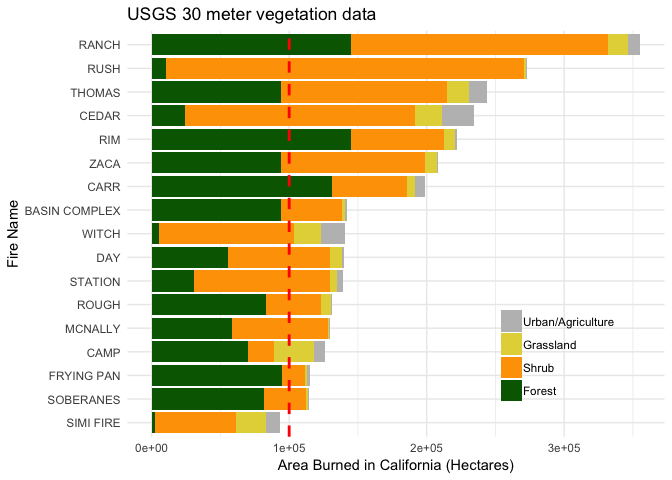
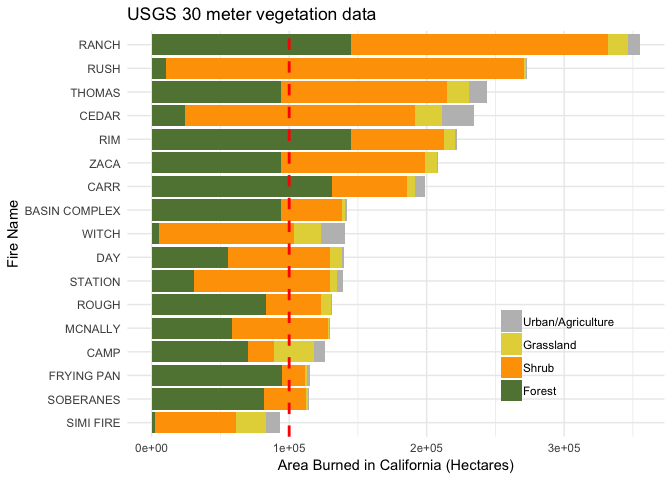
knit fig color and text

Changed region(s): [[0.2188, 0.0625, 0.5312, 0.9062], [0.7188, 0.7812, 0.7812, 0.8438]]

diff --git a/analyses/land-cover.md b/analyses/land-cover.md
@@ -265,7 +265,7 @@ fire_perc<- fh %>%
 ``` r
 cols <- c("Forest" = "darkgreen", "Grassland" = "#799479", "Shrub" = "#DBA901", "Urban/Agriculture" = "gray") 
 
-cols <- c("Forest" = "darkgreen", 
+cols <- c("Forest" = "#608341",  #"darkgreen" 
           "Grassland" = "#e4d547",#A0522D 
           "Shrub" = "#fea201", #DEB887
           "Urban/Agriculture" = "gray") 
@@ -328,6 +328,8 @@ fire_final <- fire_perc %>%
   mutate(sumarea = sum(GIS_ACRES)) %>% 
   arrange(desc(sumarea))
 
+fire_final$FIRE_NAME[29:32]="Basin"
+
 # name_color <- fire_final %>% 
 #   select(FIRE_NAME,GIS_ACRES, sumarea) %>% 
 #   distinct() 
@@ -339,29 +341,24 @@ fire_final <- fire_perc %>%
 final_fig<- fire_final %>%
   arrange(desc(sumarea)) %>% 
   arrange(desc(Category)) %>%
-  ggplot(aes(x=reorder(FIRE_NAME, sumarea), y=area, fill= Category)) + 
+  ggplot(aes(x=reorder(FIRE_NAME, sumarea), y=area, fill= Category, width= 0.8)) + 
   geom_bar(stat="identity") +
   guides(fill = guide_legend(reverse = TRUE)) +
   scale_colour_manual(values = cols, aesthetics = c("colour", "fill")) +
   scale_y_continuous(labels = scales::comma, expand = c(0, 0)) +
   theme_classic() +
-  theme(axis.title=element_text(size=9,face="bold", family = "Helvetica"),
+  theme(plot.margin = unit(c(1,3,1,1), "lines"), 
+        axis.title=element_text(size=9,face="bold", family = "Helvetica"),
         legend.text = element_text(colour="black", size=8, family = "Helvetica"),
-        axis.text.x = element_text(size=9, family = "Helvetica"),
-        axis.text.y = element_text(size=9, family = "Helvetica"), 
+        axis.text.x = element_text(size=8, family = "Helvetica"),
+        axis.text.y = element_text(size=8, family = "Helvetica"), 
         legend.position = "bottom") +
-  coord_flip() +
-  labs(y = "Acres Burned in California", 
+    labs(y = "Acres Burned in California", 
        x = element_blank(),
-       fill = element_blank())
+       fill = element_blank()) +
+  coord_flip() 
 
-final_fig 
+final_fig
 ```
 
 ![](land-cover_files/figure-markdown_github-ascii_identifiers/unnamed-chunk-7-1.png)
-
-``` r
-# mega_text<- textGrob("Megafire\nthreshold", gp=gpar(fontsize=8, fontface="bold"))
-# annotation_custom(mega_text,xmin=100000,xmax=100000,ymin=-0.07,ymax=-0.07) +
-# coord_cartesian(clip = "off")
-```
